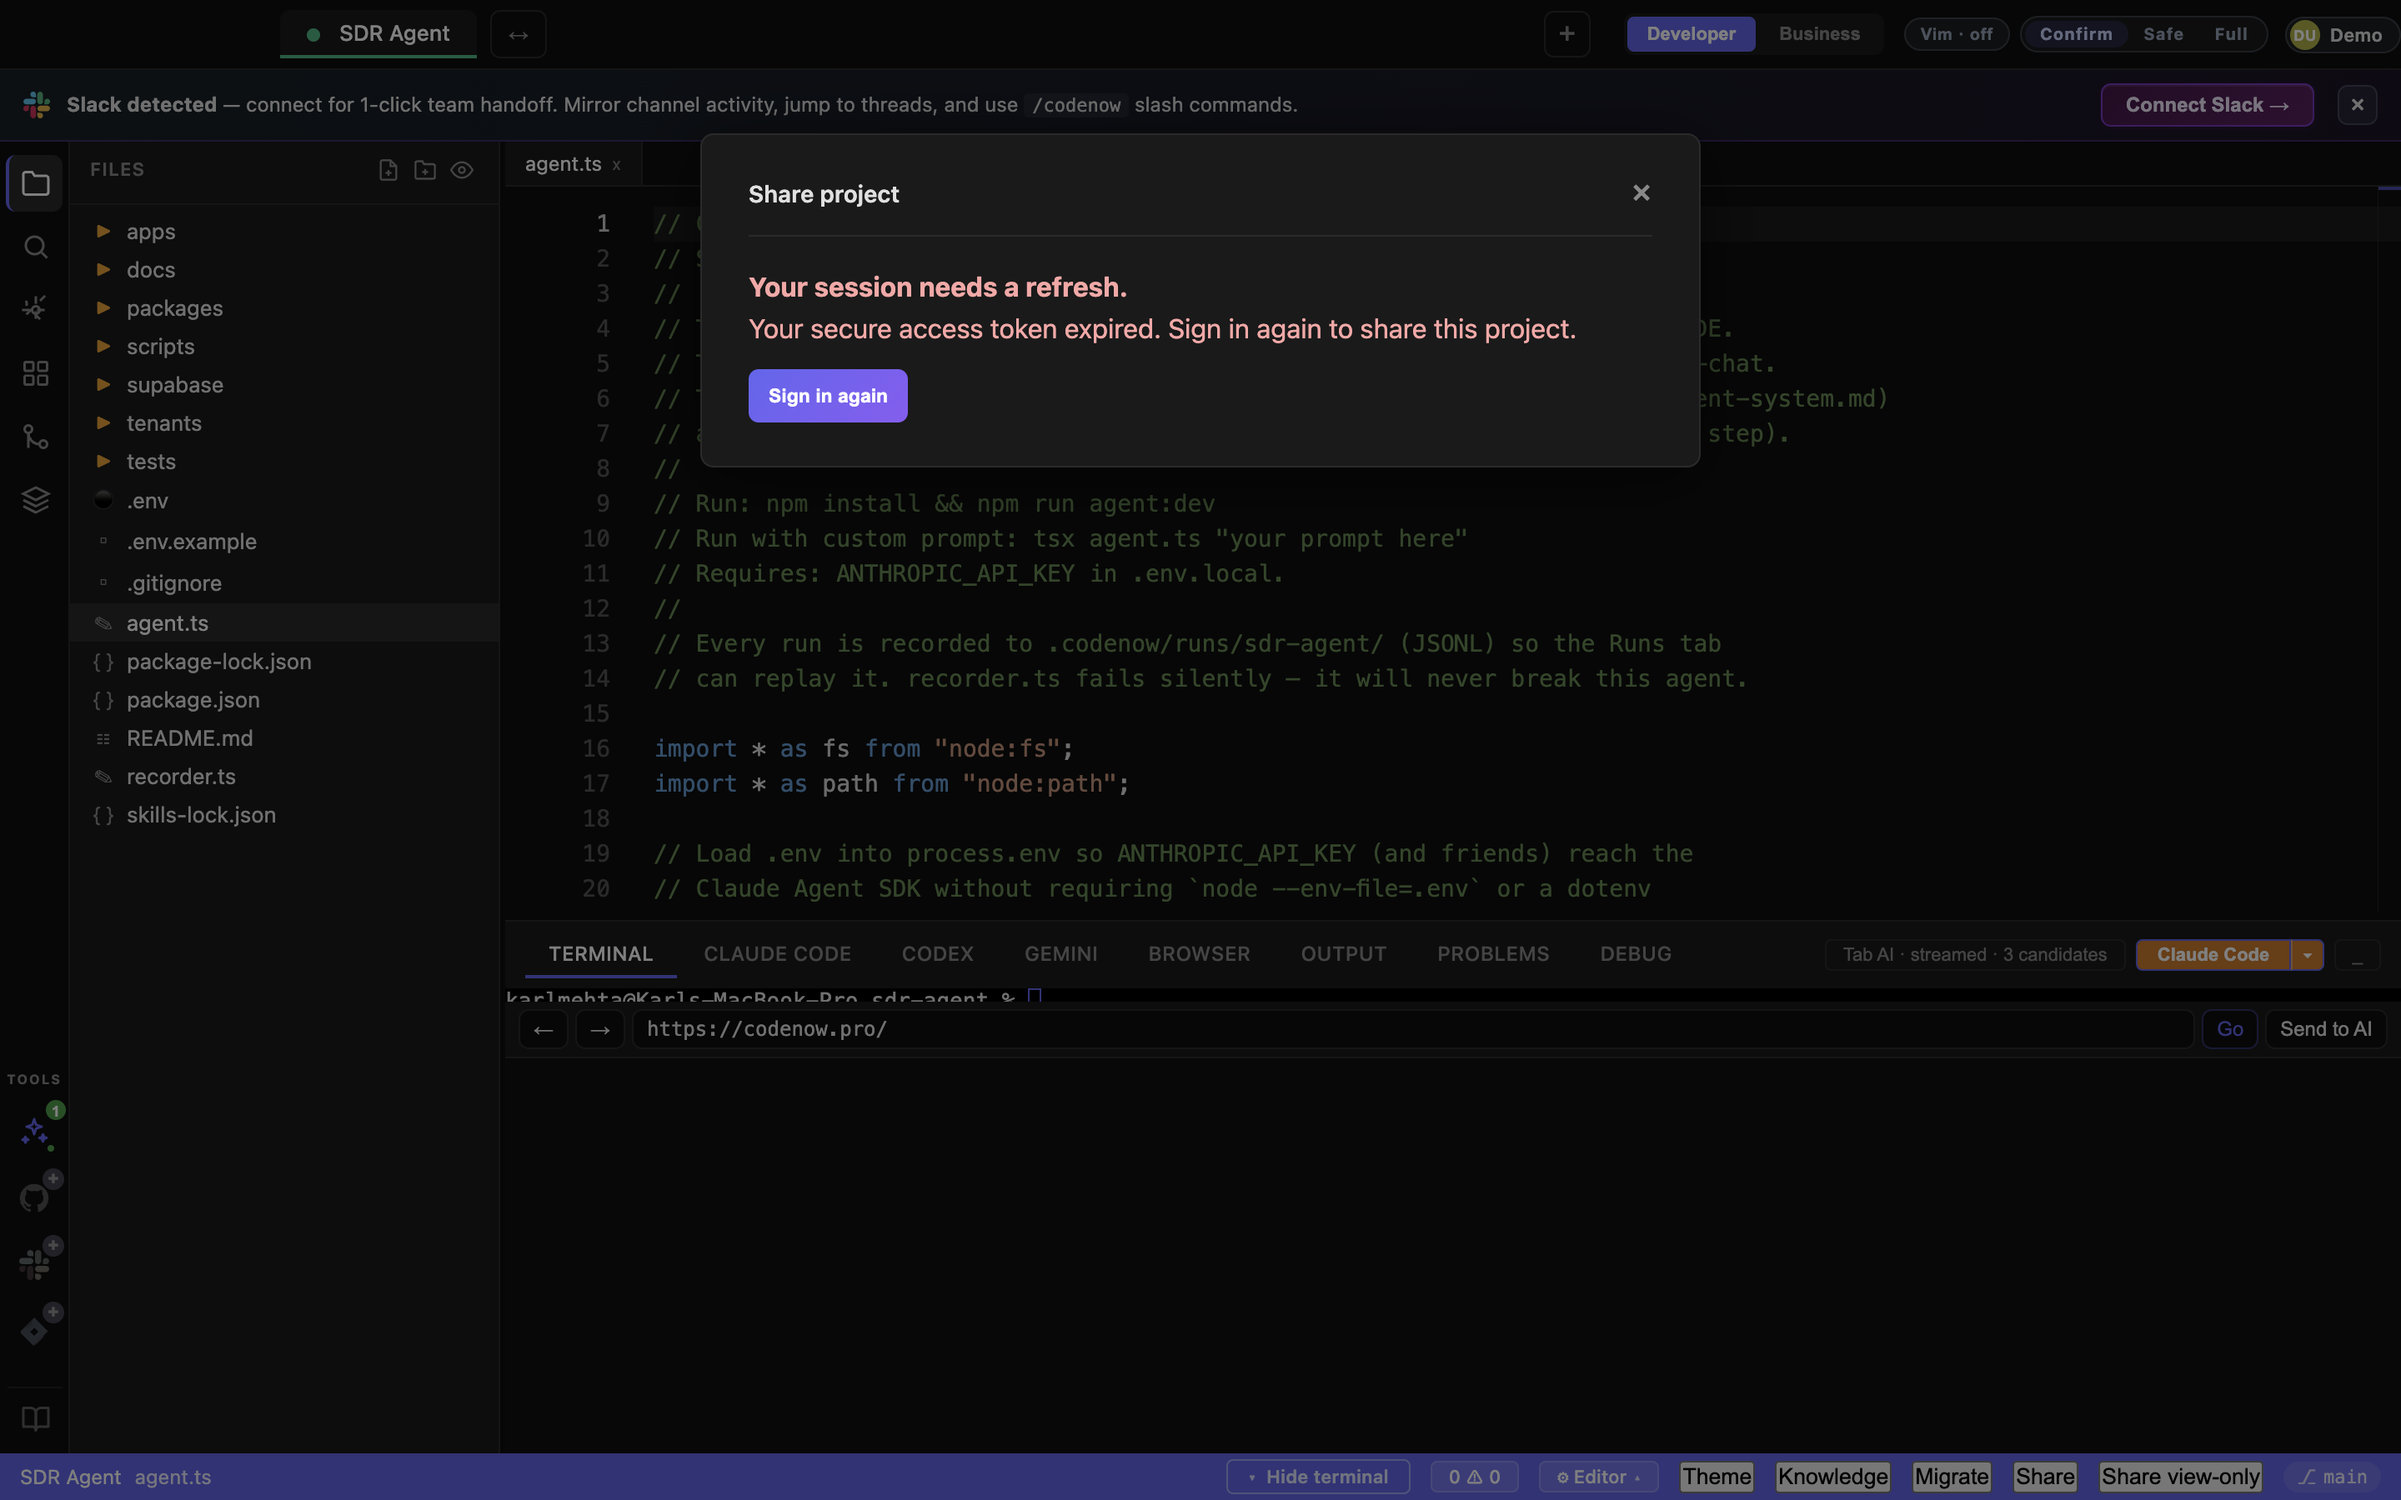
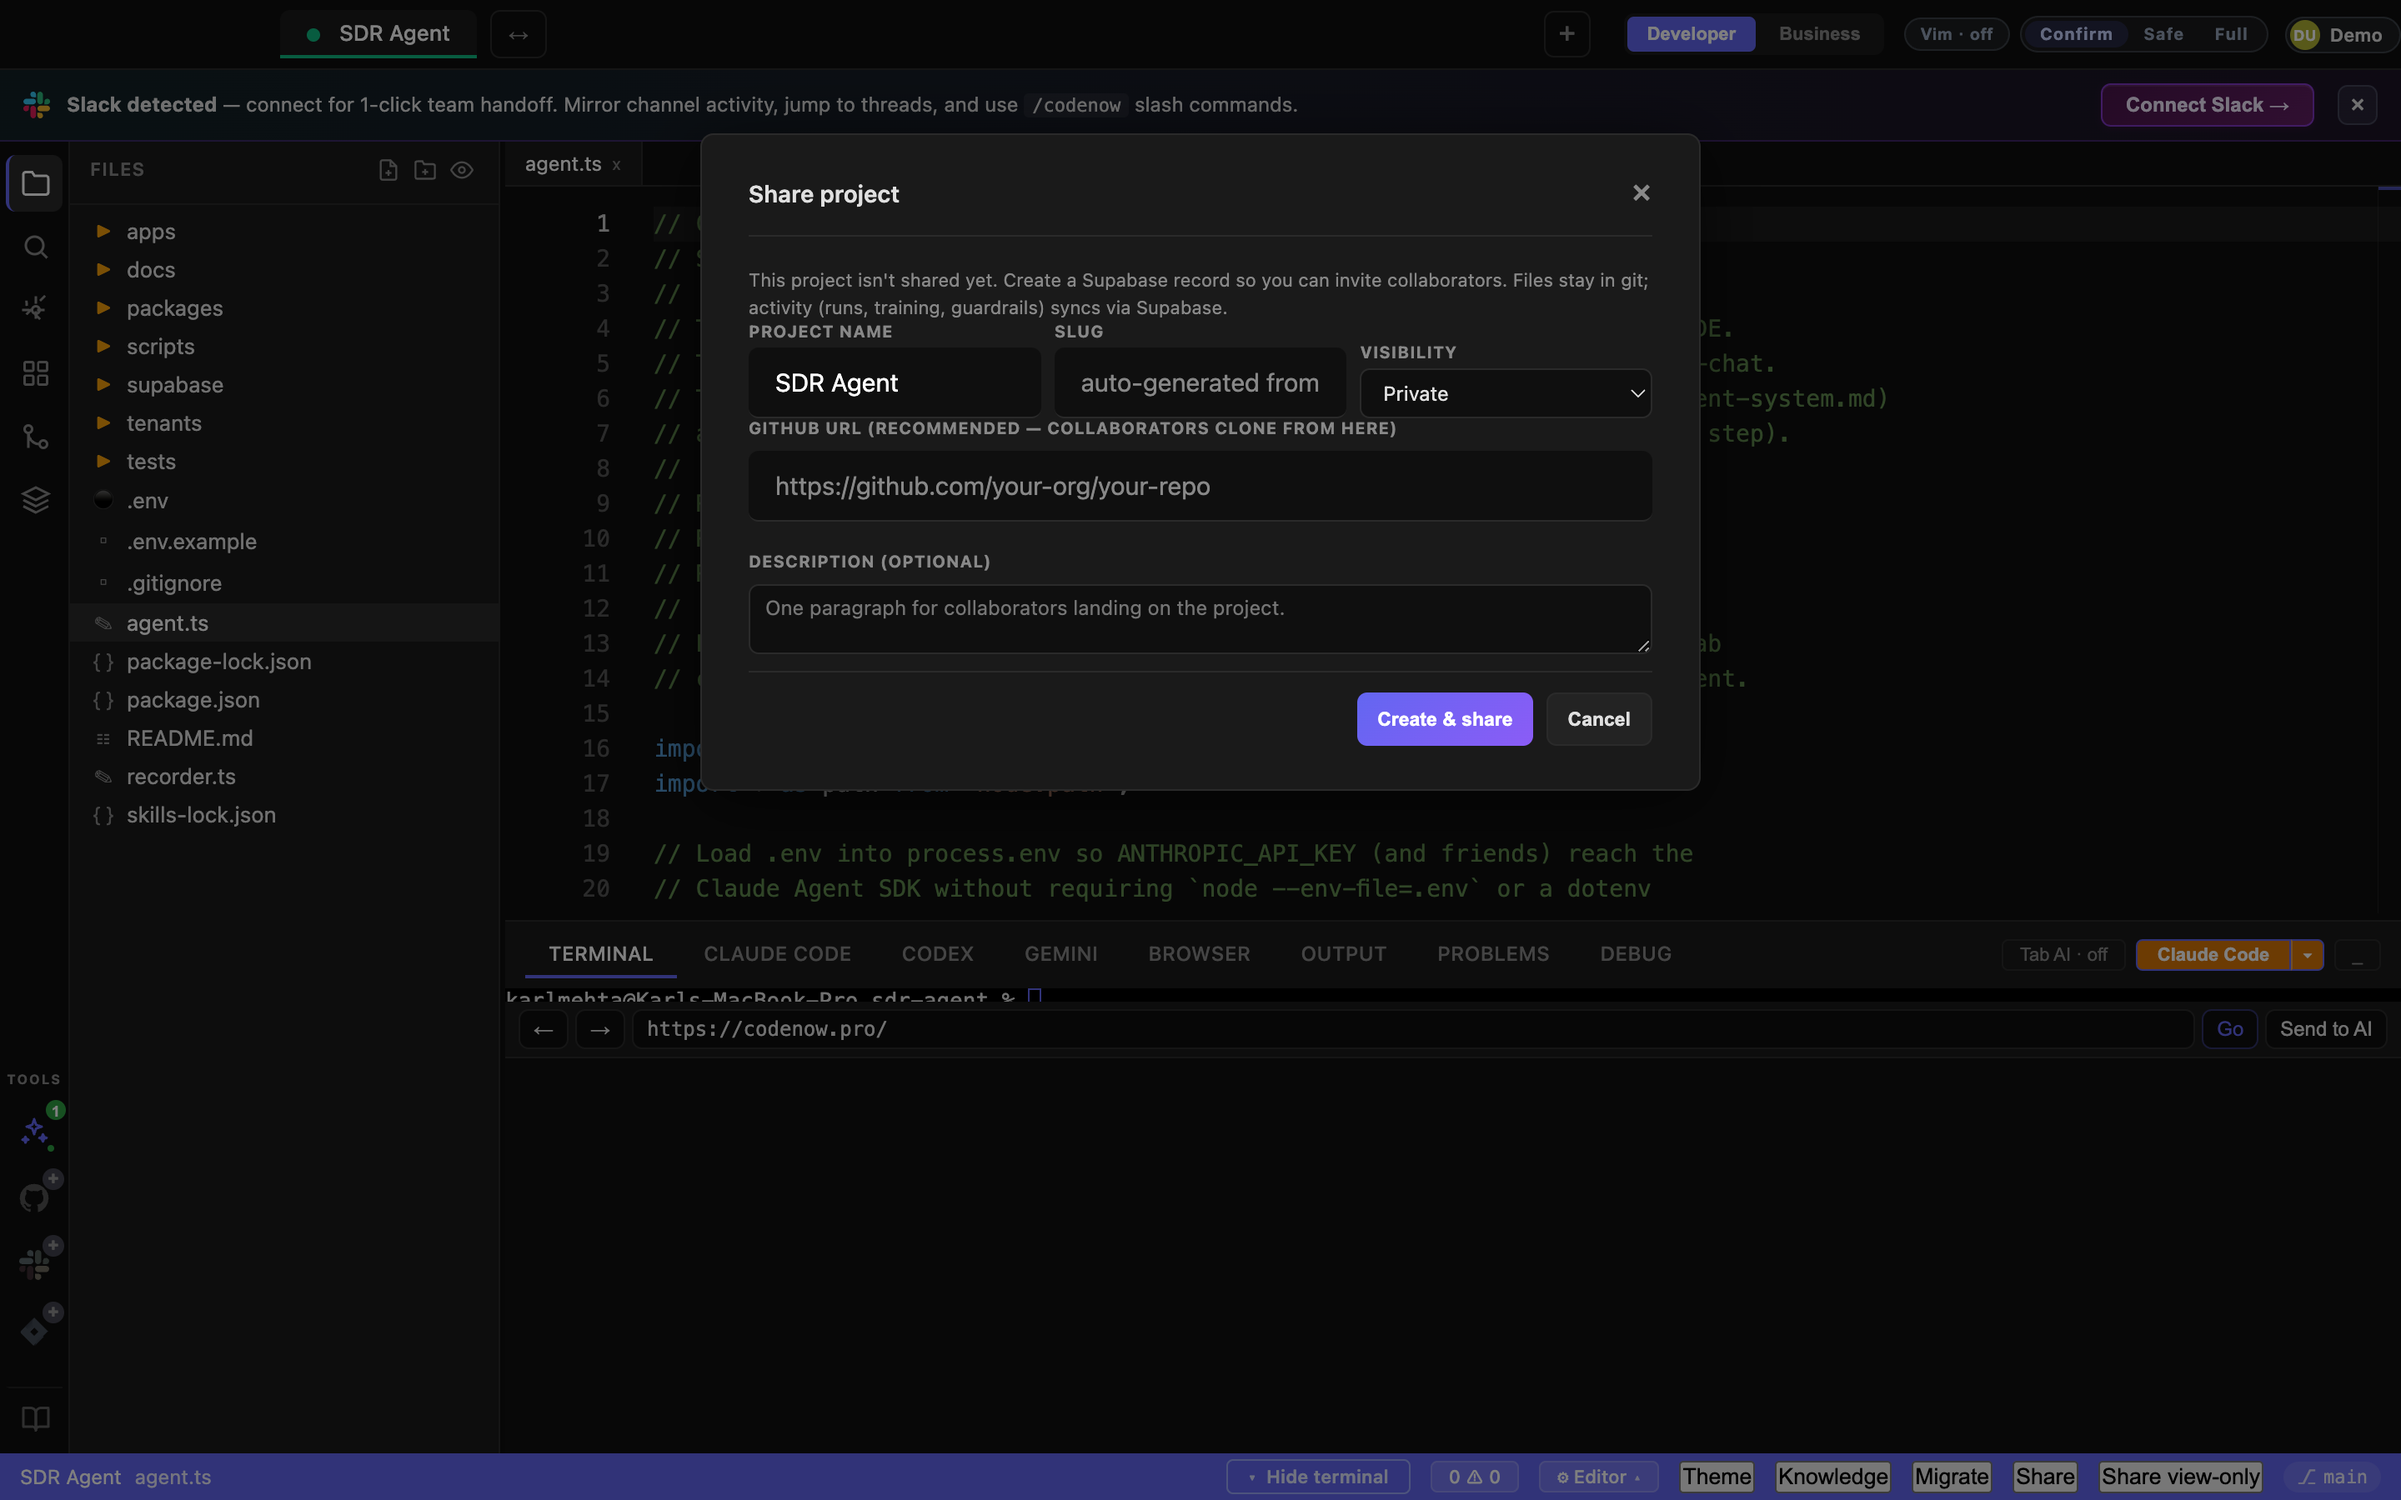
docs: pair-programming guide with screenshots
End-to-end walkthrough of the v0.1.28 consolidated Share modal:

  1. Open Share → create-record state (first share)
  2. The populated lifecycle view (TEAM + Pending + intro)
  3. Set GitHub URL inline editor
  4. Invite a teammate (form + what server-side does)
  5. Pending row shape (Email-sent pill + Resend / Copy / × actions)
  6. Teammate accepts → row moves into TEAM with a Joined pill
  7. Click Pair → CRDT Go-live bar in the editor topbar flips to
     Stop-sharing + presence pill
  8. Teammate opens same file, clicks their Go-live → both editing
     the same buffer

Plus: roles table, behind-the-scenes (tables / email / acceptance /
CRDT keying), troubleshooting.

8 new screenshots in public/screenshots/ plus the updated share-modal.png
(formerly showed the no-auth sign-in panel; now renders the real
create-record UX). All taken from real desktop DOM via the screenshot
rig — only names (Demo / Kapil / Priya) are illustrative.

diff --git a/app/concepts/_meta.js b/app/concepts/_meta.js
@@ -4,4 +4,5 @@ export default {
   runs: 'Runs and replay',
   manifests: 'Manifests and provenance',
   'mental-model': 'The 2026 Agent (mental model)',
+  'pair-programming': 'Pair programming',
 };
